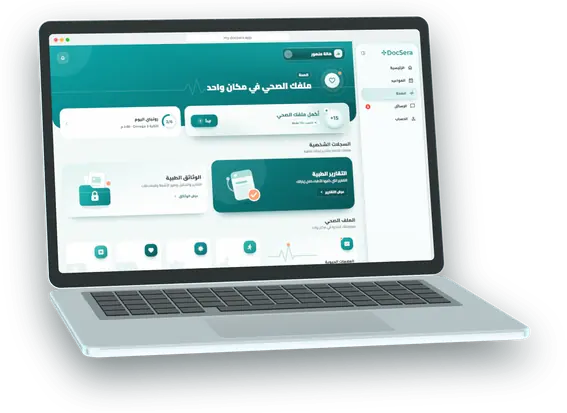
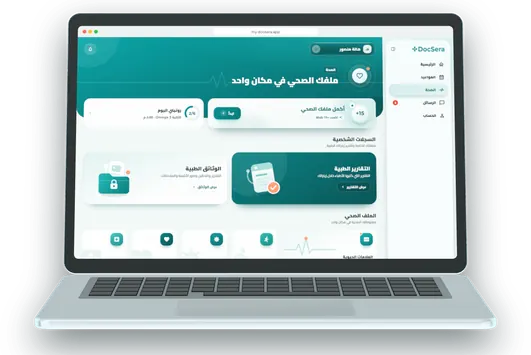
feat(home): devices on one line, the opening's phone carries on into the story

diff --git a/src/scripts/home/boot.ts b/src/scripts/home/boot.ts
@@ -13,7 +13,7 @@ const qa = <T extends Element = HTMLElement>(s: string, r: ParentNode = document
 const CH: [number, number][] = [[0.15, 0.35], [0.35, 0.56], [0.56, 0.76], [0.76, 0.985]];
 // Each phone screen: visible from..to, and when to start fetching it.
 const SHOTS: [number, number, number][] = [
-	[-1, 0.275, 0.002], [0.265, 0.345, 0.12], [0.335, 0.555, 0.24], [0.545, 0.625, 0.45],
+	[-1, 0.275, 0], [0.265, 0.345, 0.12], [0.335, 0.555, 0.24], [0.545, 0.625, 0.45],
 	[0.615, 0.69, 0.53], [0.68, 0.765, 0.6], [0.755, 2, 0.68],
 ];
 const NOTES: [number, number][] = [[0.372, 0.43], [0.432, 0.49], [0.492, 0.548]];
@@ -22,7 +22,7 @@ const PAPERS: [number, number, number][] = [
 	[-0.8, -0.3, -12], [0.72, -0.36, 9], [-0.88, 0.05, 7], [0.76, 0.1, -8], [-0.74, 0.37, 5], [0.68, 0.4, -6],
 ];
 // The small cards floating around the laptop, iPad and phone: x / y in the rig's size.
-const FLOATS: [number, number][] = [[0.15, 0.2], [0.88, 0.2], [0.58, 0.97]];
+const FLOATS: [number, number][] = [[0.13, 0.1], [0.86, 0.02], [0.5, 1.04]];
 
 const pose: DialPose = { tilt: 0.22, turn: 0.3, roll: 0, petals: [0, 0, 0, 0] };
 
@@ -110,13 +110,14 @@ function startStory(): void {
 		// The opening: a laptop, an iPad and the phone; the phone carries on into the story.
 		bgHero.style.opacity = String(1 - h);
 		const out = sm(0.025, 0.11), W = stick.clientWidth;
+		// One line: the devices rise, float and answer the pointer together.
+		const lineY = Math.sin(now / 1900) * (narrow ? 2.5 : 4) * (1 - out) - nudge * 20 + py * 5;
 		rigs.forEach((e, i) => {
 			const d = Number(e.dataset.rig) || 0;
 			const a = ease(clamp((now - t0 - i * 130) / 850)), o = 1 - sm(0.035, 0.085);
-			const bob = Math.sin(now / 1900 + i * 2.1) * (narrow ? 2.5 : 4) * (1 - out);
 			e.style.opacity = String(a * o);
 			e.style.visibility = o < 0.01 ? 'hidden' : 'visible';
-			e.style.transform = `translate3d(${d * out * W * 0.16 + px * (i + 1) * 5}px,${(1 - a) * 70 - out * 46 + bob - nudge * (16 + i * 8) + py * (i + 1) * 3}px,0)`;
+			e.style.transform = `translate3d(${d * out * W * 0.16 + px * 8}px,${(1 - a) * 70 - out * 46 + lineY}px,0)`;
 		});
 		floats.forEach((e, i) => {
 			const [fx, fy0] = FLOATS[i];
@@ -173,8 +174,9 @@ function startStory(): void {
 			c.style.visibility = o > 0.01 ? 'visible' : 'hidden';
 		});
 
-		phone.style.opacity = String(sm(0.03, 0.07) * (1 - off));
-		phone.style.transform = `translate3d(${(F.x - P.x) * (1 - h) + px * 11 * (1 - h)}px,${(F.y - P.y) * (1 - h) + (1 - enter) * 70 - off * 30 + (py * 6 - nudge * 34) * (1 - h)}px,0) scale(${lerp(F.w / P.w, 1, h) * (1 - 0.06 * off)})`;
+		// The phone of the opening IS the phone of the story: it turns to face you as it moves.
+		phone.style.opacity = String(enter * (1 - off));
+		phone.style.transform = `translate3d(${(F.x - P.x + px * 8) * (1 - h)}px,${(F.y - P.y + lineY) * (1 - h) + (1 - enter) * 70 - off * 30}px,0) perspective(620px) rotateY(${-14 * (1 - h)}deg) scale(${lerp(F.w / P.w, 1, h) * (1 - 0.06 * off)})`;
 		shots.forEach((img, i) => {
 			const [a, b, fetchAt] = SHOTS[i];
 			if (img.dataset.src && p >= fetchAt) { img.src = img.dataset.src; img.removeAttribute('data-src'); }
@@ -286,8 +288,6 @@ function startStory(): void {
 		img.srcset = img.dataset.late || '';
 	});
 	late();
-	// The flat first screen takes over from the 3D phone on the first scroll; fetch it once idle.
-	setTimeout(() => { const f = shots[0]; if (f?.dataset.src) { f.src = f.dataset.src; f.removeAttribute('data-src'); } }, 2600);
 }
 
 function startTry(): void {
